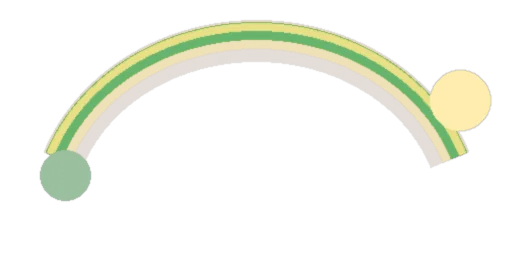
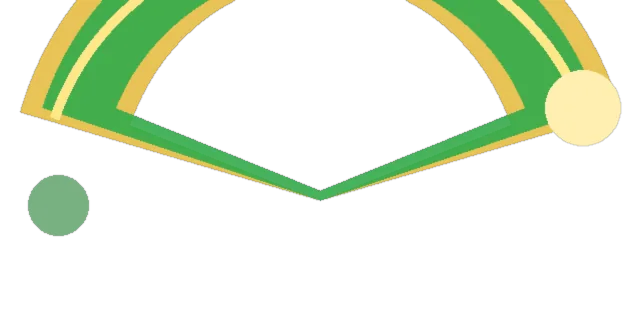
Make walk and skill VFX readable in close-up.
Thicken the 青龙斩 crescent, brighten foot-step dust, freeze a
mid-stride / mid-cast pose for screenshots, and keep VFX still
while paused so the painted cards actually show.

diff --git a/src/main.js b/src/main.js
@@ -335,29 +335,26 @@ function setupShot(game, shot) {
   const zy = game.heroes.find((h) => h.id === "zhaoyun");
   const zg = game.heroes.find((h) => h.id === "zhuge");
   if (shot === "1" || shot === "walk") {
-    if (gy) {
-      game.moveHero("guanyu", gy.x + 6.4, gy.z + 1.1);
-      game.panX = gy.x + 2.4;
-      game.panZ = gy.z + 0.4;
-    }
-    if (zy) game.moveHero("zhaoyun", zy.x + 5.2, zy.z);
+    if (gy) game.moveHero("guanyu", gy.x + 5.2, gy.z + 0.9);
+    game.poseForShot(0.37);
+    const h = game.heroes.find((n) => n.id === "guanyu") || gy;
+    game.zoomShot(h.x, h.z + 0.2, 3.2);
   } else if (shot === "guanyu" && gy) {
-    game.panX = gy.x + 1.2;
-    game.panZ = gy.z;
-    game.castHero("guanyu", gy.x + 2.4, gy.z + 1.1);
+    game.castHero("guanyu", gy.x + 2.6, gy.z + 1.15);
+    game.poseForShot(0.16);
+    game.zoomShot(gy.x + 1.1, gy.z + 0.4, 5.1);
   } else if (shot === "zhaoyun" && zy) {
-    game.panX = zy.x + 3.2;
-    game.panZ = zy.z;
-    game.castHero("zhaoyun", zy.x + 7.2, zy.z + 0.35);
+    game.castHero("zhaoyun", zy.x + 6.8, zy.z + 0.3);
+    game.poseForShot(0.14);
+    game.zoomShot(zy.x + 3.2, zy.z, 5.0);
   } else if (shot === "zhuge" && zg) {
-    game.panX = zg.x + 0.6;
-    game.panZ = zg.z;
-    game.castHero("zhuge", zg.x + 1.4, zg.z + 0.8);
+    game.castHero("zhuge", zg.x + 1.3, zg.z + 0.7);
+    game.poseForShot(0.35);
+    game.zoomShot(zg.x + 0.7, zg.z + 0.3, 5.4);
   } else {
     game.placeTower(3, "ballista");
     game.placeTower(4, "thunder");
   }
-  game.applyView();
 }
 
 boot();

diff --git a/src/vfx.js b/src/vfx.js
@@ -195,12 +195,12 @@ export class VFX {
     const n = 4;
     for (let i = 0; i < n; i++) {
       const k = (i + 1) / (n + 1);
-      const ghost = this.spriteCard(texMap, w, h, face, 0.52);
+      const ghost = this.spriteCard(texMap, w, h, face, 0.72);
       ghost.position.set(from.x + dx * k, 0, from.z + dz * k);
       ghost.rotation.y = this.aimYaw(ghost.position.x, ghost.position.z);
       this.spawn(ghost, 0.36 + i * 0.04, (it) => {
         it.node.rotation.y = this.aimYaw(it.node.position.x, it.node.position.z);
-        it.node.material.opacity = 0.5 * (it.life / it.max);
+        it.node.material.opacity = 0.7 * (it.life / it.max);
       });
     }
   }
@@ -240,13 +240,13 @@ export class VFX {
   }
 
   dust(x, z) {
-    const puff = this.card(tex(ART.vfx.dust), 0.72, 0.44, { opacity: 0.5 });
+    const puff = this.card(tex(ART.vfx.dust), 1.25, 0.78, { opacity: 0.88 });
     puff.rotation.x = -Math.PI / 2;
     puff.position.set(x + (Math.random() - 0.5) * 0.16, 0.04, z + (Math.random() - 0.5) * 0.16);
-    this.spawn(puff, 0.28, (it) => {
+    this.spawn(puff, 0.5, (it) => {
       const k = 1 - it.life / it.max;
       it.node.scale.setScalar(1 + k * 0.85);
-      it.node.material.opacity = 0.48 * (1 - k);
+      it.node.material.opacity = 0.65 * (1 - k);
       it.node.position.y = 0.04 + k * 0.1;
     });
   }

diff --git a/src/Game.js b/src/Game.js
@@ -337,10 +337,12 @@ export class Game {
     const dt = Math.min(0.05, this.clock.getDelta());
     if (this.mode === "playing" && !this.paused && !this.orientHold && !this.won && !this.lost) {
       this.tick(dt * this.speed);
+      this.vfx.update(dt);
     } else if (this.mode === "menu") {
       this.world.rotation.y = 0;
+    } else if (this.mode !== "playing") {
+      this.vfx.update(dt);
     }
-    this.vfx.update(dt);
     this.bobDecor(dt);
     this.aimBillboards();
     this.renderer.render(this.scene, this.camera);
@@ -976,6 +978,26 @@ export class Game {
   cycleSpeed() {
     this.speed = this.speed === 1 ? 2 : this.speed === 2 ? 3 : 1;
     this.emit();
+  }
+
+  poseForShot(seconds) {
+    const step = 1 / 30;
+    let t = 0;
+    while (t < seconds) {
+      const dt = Math.min(step, seconds - t);
+      if (!this.won && !this.lost) this.tick(dt);
+      this.vfx.update(dt);
+      t += dt;
+    }
+    this.aimBillboards();
+    this.paused = true;
+  }
+
+  zoomShot(x, z, size = 4.4) {
+    this.viewSize = size;
+    this.panX = x;
+    this.panZ = z;
+    this.applyView();
   }
 
   groundHit(event) {

diff --git a/src/models.js b/src/models.js
@@ -230,13 +230,14 @@ export function stepLocomotion(unit, dt, { vx = 0, vz = 0, dust } = {}) {
     unit.stride = (unit.stride ?? 0) + dt * (7.6 + speed * 1.55);
     const wave = Math.sin(unit.stride);
     const hop = Math.abs(wave);
-    bob.position.y = hop * 0.13;
-    bob.scale.set(1 + hop * 0.035, 1 + hop * 0.08, 1 - hop * 0.07);
+    bob.position.y = hop * 0.18;
+    bob.scale.set(1 + hop * 0.05, 1 + hop * 0.12, 1 - hop * 0.1);
     bob.rotation.z += (-Math.sign(vx || 1) * Math.min(0.2, speed * 0.032) - bob.rotation.z) * 0.28;
     bob.rotation.x += (Math.min(0.1, speed * 0.018) - bob.rotation.x) * 0.22;
     const planted = wave >= 0;
     if (unit._planted !== undefined && planted !== unit._planted) {
       dust?.(unit.x, unit.z);
+      dust?.(unit.x + vx * 0.4, unit.z + vz * 0.4);
     }
     unit._planted = planted;
     faceToward(mesh, vx, dt);

diff --git a/scripts/make_vfx.py b/scripts/make_vfx.py
@@ -4,7 +4,7 @@
 from math import cos, pi, sin
 from pathlib import Path
 
-from PIL import Image, ImageDraw, ImageFilter
+from PIL import Image, ImageChops, ImageDraw, ImageFilter
 
 OUT = Path("/workspace/public/vfx")
 OUT.mkdir(parents=True, exist_ok=True)
@@ -17,22 +17,27 @@ def save(im: Image.Image, name: str) -> None:
 
 
 def crescent() -> Image.Image:
-    im = Image.new("RGBA", (512, 256), (0, 0, 0, 0))
+    w, h = 640, 320
+    gold = Image.new("RGBA", (w, h), (0, 0, 0, 0))
+    ImageDraw.Draw(gold).pieslice((8, -120, 632, 520), 196, 344, fill=(230, 190, 70, 235))
+    punch = Image.new("L", (w, h), 0)
+    ImageDraw.Draw(punch).pieslice((118, -20, 522, 420), 200, 340, fill=255)
+    gold.putalpha(ImageChops.subtract(gold.split()[3], punch))
+
+    green = Image.new("RGBA", (w, h), (0, 0, 0, 0))
+    ImageDraw.Draw(green).pieslice((28, -100, 612, 500), 198, 342, fill=(50, 170, 75, 230))
+    punch2 = Image.new("L", (w, h), 0)
+    ImageDraw.Draw(punch2).pieslice((100, -30, 540, 410), 202, 338, fill=255)
+    green.putalpha(ImageChops.subtract(green.split()[3], punch2))
+
+    im = Image.new("RGBA", (w, h), (0, 0, 0, 0))
+    im = Image.alpha_composite(im, gold)
+    im = Image.alpha_composite(im, green)
     d = ImageDraw.Draw(im)
-    # Wide 偃月 blade: gold rim, green core
-    for i, (col, w) in enumerate(
-        (
-            ((80, 40, 8, 40), 42),
-            ((210, 170, 50, 90), 28),
-            ((60, 160, 70, 200), 18),
-            ((230, 220, 120, 230), 8),
-        )
-    ):
-        d.arc((30 + i, 20 + i, 482 - i, 420 - i), 200, 340, fill=col, width=w)
-    # tip flare
-    d.ellipse((430, 70, 490, 130), fill=(255, 230, 140, 180))
-    d.ellipse((40, 150, 90, 200), fill=(40, 120, 50, 120))
-    return im.filter(ImageFilter.GaussianBlur(0.6))
+    d.arc((36, -70, 604, 470), 198, 342, fill=(255, 230, 130, 240), width=10)
+    d.ellipse((545, 70, 620, 145), fill=(255, 236, 160, 210))
+    d.ellipse((28, 175, 88, 235), fill=(40, 130, 55, 160))
+    return im.filter(ImageFilter.GaussianBlur(0.5))
 
 
 def slash_mark() -> Image.Image:
@@ -88,16 +93,17 @@ def bagua() -> Image.Image:
 
 
 def dust() -> Image.Image:
-    im = Image.new("RGBA", (128, 80), (0, 0, 0, 0))
+    im = Image.new("RGBA", (160, 100), (0, 0, 0, 0))
     d = ImageDraw.Draw(im)
     for cx, cy, r, a in (
-        (40, 50, 22, 90),
-        (64, 42, 28, 110),
-        (90, 52, 20, 80),
-        (52, 58, 14, 70),
+        (48, 64, 30, 170),
+        (82, 50, 38, 200),
+        (118, 66, 28, 160),
+        (70, 74, 20, 140),
+        (100, 58, 16, 120),
     ):
-        d.ellipse((cx - r, cy - r, cx + r, cy + r), fill=(150, 120, 70, a))
-    return im.filter(ImageFilter.GaussianBlur(2.2))
+        d.ellipse((cx - r, cy - r, cx + r, cy + r), fill=(236, 214, 168, a))
+    return im.filter(ImageFilter.GaussianBlur(2.4))
 
 
 def rune() -> Image.Image:
